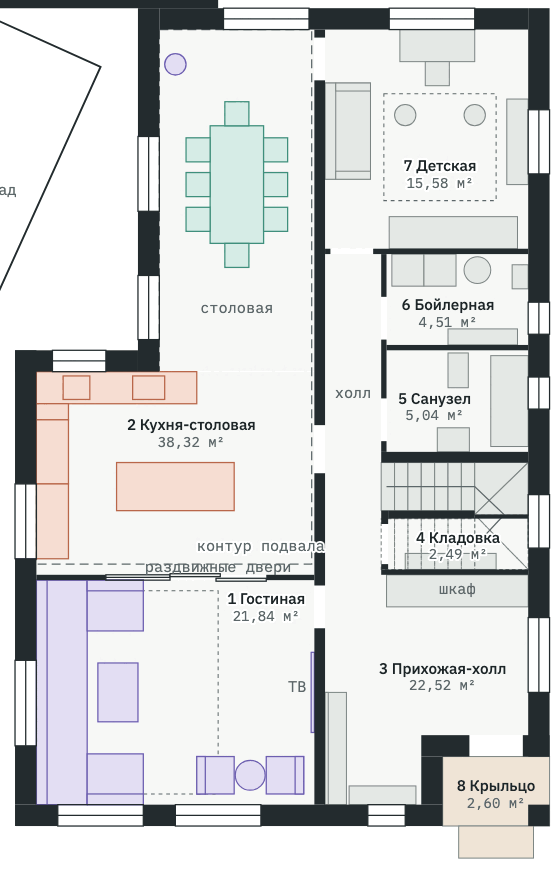
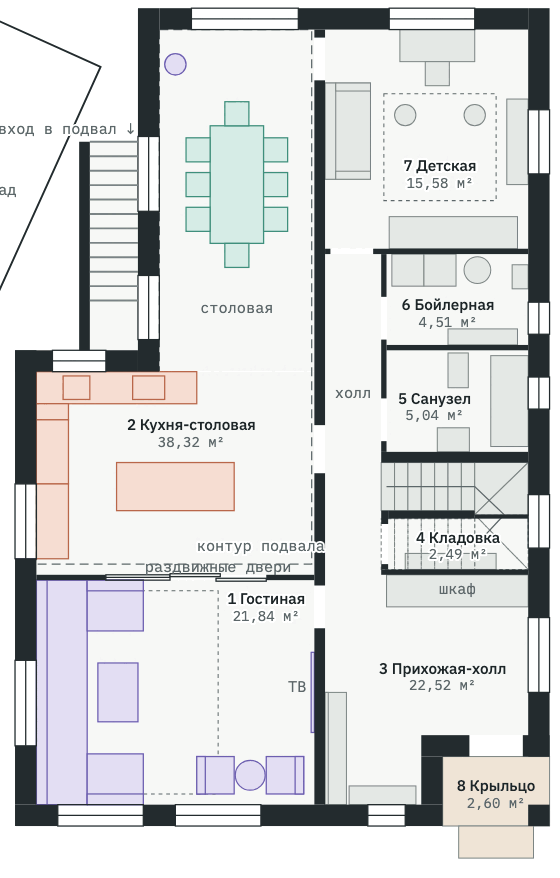
Variant 5: basement stair pit between the house and the shed
The pit now runs along the left wall of the dining room, starting past
the narrow spot at the shed corner (2.5 m from the house corner) and
ending at a door straight ahead into the basement under the kitchen.
Garden door, its pad and the septic sewer route are back as before.
Views, plans, volumes and notes updated.

diff --git a/dom/v5-dvuskatnaya.html b/dom/v5-dvuskatnaya.html
@@ -117,7 +117,7 @@ tr.out td{color:var(--muted)}
 <svg id="fplan" viewBox="-90 -110 850 1000" width="100%" role="img" style="min-width:540px"><title>План фундамента</title><desc>Монолитная плита 250 мм по контуру дома: сзади 7,7 м, спереди 10,0 м, длина 15,3 м, в правом переднем углу вырез под крыльцо. Рёбра под плитой показаны пунктиром, выпуски коммуникаций — кружками с кодами К, В, Э, З, выходы отопления — красными квадратиками О, трубы под плитой — цветным пунктиром, отдельные плиты крыльца и площадки у двери в сад, привязка к границе участков и переднему забору. Размеры в мм.</desc></svg>
 <svg id="fsec" viewBox="0 0 680 300" width="100%" role="img" style="min-width:540px;margin-top:6px"><title>Край плиты в разрезе</title><desc>Разрез по наружной стене: стена 400, плита 250, ребро 400 × 400, ЭППС 100, подушка 300, утеплённая отмостка, отметки от чистого пола.</desc></svg>
 </div>
-<svg id="plan1" viewBox="0 -40 680 800" width="100%" role="img" style="min-width:540px" hidden><title>План первого этажа</title><desc>Первый этаж, вариант 5: спереди дом шириной 10 м. Вход справа: крыльцо в правом переднем углу под вторым этажом, за ним большая прихожая-холл. Слева от фасада назад гостиная, за перегородкой с раздвижными стеклянными дверями кухня с островом и в узкой задней части столовая с выходом в сад. Пунктиром показан подвал под кухней и столовой, за задней стеной приямок со ступенями — вход в подвал. Справа прихожая-холл без перегородок до лестницы, со шкафом, вешалкой и обувницей, дальше лестница с кладовкой, санузел, бойлерная и детская. Размеры в мм.</desc></svg>
+<svg id="plan1" viewBox="0 0 680 760" width="100%" role="img" style="min-width:540px" hidden><title>План первого этажа</title><desc>Первый этаж, вариант 5: спереди дом шириной 10 м. Вход справа: крыльцо в правом переднем углу под вторым этажом, за ним большая прихожая-холл. Слева от фасада назад гостиная, за перегородкой с раздвижными стеклянными дверями кухня с островом и в узкой задней части столовая с выходом в сад. Пунктиром показан подвал под кухней и столовой, между домом и складом приямок со ступенями — вход в подвал. Справа прихожая-холл без перегородок до лестницы, со шкафом, вешалкой и обувницей, дальше лестница с кладовкой, санузел, бойлерная и детская. Размеры в мм.</desc></svg>
 <svg id="plan2" viewBox="0 0 680 760" width="100%" role="img" style="min-width:540px"><title>План второго этажа</title><desc>Второй этаж, вариант 5, полумансардный под двускатной крышей: мастер-спальня, гардеробная и санузел в задней части, Г-образная спальня, большой общий санузел, коридор с лестницей справа и две спальни спереди: слева на месте кабинета и балкона, справа. Пунктиром показаны окна в крыше. Размеры в мм.</desc></svg>
 </div>
 <div class="card">
@@ -129,9 +129,9 @@ tr.out td{color:var(--muted)}
 <tr><td>Р2</td><td>Ребро под несущей стеной вдоль дома 300 × 300, 14,5 м</td><td>1,3 м³</td></tr>
 <tr class="sum"><td></td><td>Бетон под дом</td><td>43,1 м³</td></tr>
 <tr class="out"><td>2</td><td>Плита крыльца 200 мм, через шов</td><td>0,6 м³</td></tr>
-<tr class="out"><td>3</td><td>Площадка у двери в сад 200 мм</td><td>0,4 м³</td></tr>
+<tr class="out"><td>3</td><td>Площадка у двери в сад 200 мм</td><td>0,6 м³</td></tr>
 <tr><td>4</td><td>Подвал: стены 400 мм и плита пола 200 мм</td><td>38,4 м³</td></tr>
-<tr><td>5</td><td>Приямок со ступенями</td><td>≈ 10 м³</td></tr>
+<tr><td>5</td><td>Приямок со ступенями</td><td>≈ 6 м³</td></tr>
 </table>
 <table id="tu" style="margin-top:14px"><caption>Выпуски из плиты · привязки в м от наружных граней</caption></table>
 <p class="hint" style="margin-top:10px">Серый пунктир на плане — рёбра под плитой, цветной — трубы в подушке под плитой, кружки — выпуски. Оранжевым канализация, синим вода, красным отопление, чёрным кабель, оливковым заземление. Отопление квадратиками: его трубы лежат не в бетоне, а поверх плиты в стяжке. Отметки в метрах от чистого пола 1 этажа. Сечения ориентировочные, армирование и точные размеры считает конструктор по геологии участка.</p>
@@ -176,8 +176,8 @@ tr.out td{color:var(--muted)}
 <li><b>Замеры с эскиза.</b> Пунктир на эскизе я понял как границу между участками …299 и …300. Склад 5,5 × 5,6 м. Его задний угол со стороны дома стоит в 10,4 м от границы, от этого места вдоль границы до переднего забора 18,7 м. От заднего угла участка вдоль левого забора до склада 10,6 м. По модели от переднего угла склада до границы выходит 12,7 м и до переднего забора 13,6 м, у вас 12,8 и 13,5. Расхождение 10 см, это в пределах точности рулетки. Верхняя строчка на фото обрезана, поэтому размер «до забора у эл. столба» я не увидел.</li>
 <li><b>Участки.</b> Новый дом стоит на участке …299. Правая стена в 2 м от границы с …300, это обязательный отступ. Фасад в 4,5 м от переднего забора. Выступ смотрит в дальний конец участка, вход к воротам. На участке …300 уже стоит двухэтажный дом 11 × 10 м в 2 м от границы и в 6 м от переднего забора. Я нарисовал его по фото. Крыша двускатная несимметричная, конёк идёт от фасада к заднему забору и сдвинут вправо, длинный пологий скат смотрит на новый дом. Карниз примерно на 5 м, конёк на 7,6 м, это оценка по фото. Считаю, что фасад с гаражом смотрит на передний забор. Пристройки сзади не рисовал. Снег с длинного ската будет сходить в двухметровую полосу у границы, так что на этот скат стоит поставить снегозадержатели. Между домами получается 4 м. Это меньше обычного противопожарного разрыва между домами на соседних участках (от 6 м), стоит проверить, как это решается для ваших двух участков. По замерам левый забор проходит на 0,6–0,9 м дальше, чем по кадастровым цифрам, поэтому торец с воротами на плане вышел ≈8,8 м вместо 8. Его лучше перемерить. Забор высотой 2 м идёт по всему внешнему периметру обоих участков, между ними забора нет. Ворота 4,5 м без верхней балки и калитка стоят в нижнем левом торце, от калитки к крыльцу ведёт дорожка.</li>
 <li><b>Фундамент — монолитная плита 250 мм</b> ровно по контуру дома, 135,7 м². Снизу рёбра: по контуру 400 × 400 мм под наружными стенами и одно ребро 300 × 300 мм под несущей стеной вдоль дома, 13,2 м. Остальные стены первого этажа — перегородки, отдельные рёбра под ними не нужны. Верх плиты на −0,100, на стяжку и пол остаётся 100 мм. Низ плиты на уровне земли, низ рёбер на −0,750. Под плитой ЭППС 100 мм и песчано-щебёночная подушка 300 мм, торец плиты утеплён, вокруг утеплённая отмостка. Бетона под дом уходит ≈43,1 м³. Крыльцо в правом переднем углу и площадка у двери в сад стоят на отдельных плитах 200 мм через шов, под угловой стойкой крыльца отдельная опора. Сечения ориентировочные: армирование и точные размеры считает конструктор по геологии участка.</li>
-<li><b>Подвал под кухней и столовой</b> с входом из сада. Он повторяет контур кухни и столовой, внутри 36,8 м²: 2,85 × 10 м вдоль несущей стены и 2,3 × 3,6 м под кухней у склада. Высота 2,4 м, пол на −2,750 от пола первого этажа, это 2,4 м ниже земли. Стены монолитные 400 мм заподлицо с наружными стенами дома, справа 300 мм прямо под несущей стеной, пол — плита 200 мм. Снаружи обмазочная гидроизоляция и ЭППС, по периметру дренаж. Плита 250 над подвалом становится перекрытием, её армируют как перекрытие. Вход — приямок вдоль задней стены слева от двери в сад: 12 ступеней по 200 мм с проступью 270, внизу площадка перед металлической дверью 0,8 м. Спускаются со стороны склада. Вокруг приямка ограждение 1 м, над ним нужен навес, в полу трап — воду из него отводят в дренажный колодец или насосом. Чтобы приямок не мешал выходу в сад, дверь в сад сдвинута вправо и стала 1,6 м, площадка перед ней тоже. Канализация от кухни идёт под потолком подвала, труба к септику обходит приямок. Внутри вдоль стен стеллажи для заготовок, свет и приточно-вытяжная вентиляция через стену. Бетона на подвал ≈ 38 м³ и на приямок ≈ 10 м³, котлован ≈ 200–250 м³ грунта. Главное — грунтовые воды: до решения нужна геология или шурф на 3 м. Если вода выше дна подвала, его делают в полной гидроизоляции или от него отказываются.</li>
-<li><b>Выпуски коммуникаций из плиты.</b> Всё, что должно торчать из плиты после заливки, показано в режиме «Только фундамент» и на плане фундамента, коды и привязки — в таблице рядом. Канализация: К1 мойка на кухне, К2 стояк общего санузла второго этажа в кухонной колонне, К3 унитаз, К4 стояк мастер-санузла второго этажа, К5 раковина, К6 трап душа, К7 стиральная и сушильная машины, К8 трап в бойлерной. Трубы 110 и 50 мм прокладывают в подушке под утеплителем с уклоном 2 % для 110 и 3 % для 50 к общему выпуску КВ через заднюю стену, оттуда труба 110 идёт ≈ 11 м к септику за складом, в обход приямка. Через рёбра трубы идут в гильзах, выпуски выводят на 150–200 мм выше плиты и заглушают. Септик квадратный, 2 × 2 м, стоит вплотную за складом у левого забора, стороны параллельны складу. До угла дома от него ≈ 3,8 м: для герметичного септика этого хватает, а если он с фильтрацией в грунт, обычно требуют от 5 м — это стоит уточнить у поставщика. В бойлерной у правой стены ввод воды В1 в гильзе ниже промерзания, вода приходит из-за дома на …300 — за его задней стеной и по полосе между домом и границей, гильза под кабель Э1 и выпуск заземления З1 от контура. Кабель приходит от щита учёта на переднем заборе у границы участков: в трубе ПНД на глубине 0,8 м под площадкой для машины и дальше по полосе между домом и границей к гильзе Э1, ≈ 16 м. С водой он пересекается на разной глубине. Точку, где вода подключается за домом на …300, надо уточнить до закладки. Газ к котлу заводят через стену выше земли. Отопление показано красным: коллектор ОК у котла, трубы PEX 16 к радиаторам под окнами первого этажа О1–О6, полотенцесушитель О7 и стояк на второй этаж О8. Эти трубы кладут не в бетон, а поверх плиты в стяжку, через несущую стену — только в дверных проёмах. Но выходы из пола надо знать до стяжки. Разводка ориентировочная, под радиаторы; если захотите тёплый пол, стяжка и утеплитель будут другими. Места выпусков сверить с сантехником: точность ±20 мм.</li>
+<li><b>Подвал под кухней и столовой</b>, вход через приямок между домом и складом. Подвал повторяет контур кухни и столовой, внутри 36,8 м²: 2,85 × 10 м вдоль несущей стены и 2,3 × 3,6 м под кухней у склада. Высота 2,4 м, пол на −2,750 от пола первого этажа, это 2,4 м ниже земли. Стены монолитные 400 мм заподлицо с наружными стенами дома, справа 300 мм прямо под несущей стеной, пол — плита 200 мм. Снаружи обмазочная гидроизоляция и ЭППС, по периметру дренаж. Плита 250 над подвалом становится перекрытием, её армируют как перекрытие. Приямок идёт вдоль левой стены столовой. От двери в сад заворачиваешь за угол дома, проходишь мимо угла склада — там самое узкое место, 0,7 м, приямок туда не помещается — и в 2,5 м от угла начинаются ступени: 11 проступей по 270 мм, подъём 200. Внизу площадка 0,9 × 0,9 м, и прямо по ходу металлическая дверь 0,8 м в стене под ступенькой дома, она ведёт в часть подвала под кухней. Со стороны склада подпорная стенка с ограждением 1 м, до склада от неё 0,2–1,9 м; сваи склада рядом, котлован у них надо крепить. Над приямком нужен навес, в полу трап — воду из него отводят в дренажный колодец или насосом. Проход между домом и складом к фасаду приямок перекрывает, обходить придётся с другой стороны дома. Канализация от кухни идёт под потолком подвала. Внутри вдоль стен стеллажи для заготовок, свет и приточно-вытяжная вентиляция через стену. Бетона на подвал ≈ 38 м³ и на приямок ≈ 6 м³, котлован ≈ 200–250 м³ грунта. Главное — грунтовые воды: до решения нужна геология или шурф на 3 м. Если вода выше дна подвала, его делают в полной гидроизоляции или от него отказываются.</li>
+<li><b>Выпуски коммуникаций из плиты.</b> Всё, что должно торчать из плиты после заливки, показано в режиме «Только фундамент» и на плане фундамента, коды и привязки — в таблице рядом. Канализация: К1 мойка на кухне, К2 стояк общего санузла второго этажа в кухонной колонне, К3 унитаз, К4 стояк мастер-санузла второго этажа, К5 раковина, К6 трап душа, К7 стиральная и сушильная машины, К8 трап в бойлерной. Трубы 110 и 50 мм прокладывают в подушке под утеплителем с уклоном 2 % для 110 и 3 % для 50 к общему выпуску КВ через заднюю стену, оттуда труба 110 идёт ≈ 10 м к септику за складом. Через рёбра трубы идут в гильзах, выпуски выводят на 150–200 мм выше плиты и заглушают. Септик квадратный, 2 × 2 м, стоит вплотную за складом у левого забора, стороны параллельны складу. До угла дома от него ≈ 3,8 м: для герметичного септика этого хватает, а если он с фильтрацией в грунт, обычно требуют от 5 м — это стоит уточнить у поставщика. В бойлерной у правой стены ввод воды В1 в гильзе ниже промерзания, вода приходит из-за дома на …300 — за его задней стеной и по полосе между домом и границей, гильза под кабель Э1 и выпуск заземления З1 от контура. Кабель приходит от щита учёта на переднем заборе у границы участков: в трубе ПНД на глубине 0,8 м под площадкой для машины и дальше по полосе между домом и границей к гильзе Э1, ≈ 16 м. С водой он пересекается на разной глубине. Точку, где вода подключается за домом на …300, надо уточнить до закладки. Газ к котлу заводят через стену выше земли. Отопление показано красным: коллектор ОК у котла, трубы PEX 16 к радиаторам под окнами первого этажа О1–О6, полотенцесушитель О7 и стояк на второй этаж О8. Эти трубы кладут не в бетон, а поверх плиты в стяжку, через несущую стену — только в дверных проёмах. Но выходы из пола надо знать до стяжки. Разводка ориентировочная, под радиаторы; если захотите тёплый пол, стяжка и утеплитель будут другими. Места выпусков сверить с сантехником: точность ±20 мм.</li>
 <li><b>Mercedes Atego с кузовом 7 м</b> (вся машина около 9,3 м) заезжает вдоль переднего забора и проезжает вперёд до границы второго участка. До забора 0,5 м, до фасада около 1,5 м, проход к крыльцу остаётся. Чтобы грузовик заезжал прямо вдоль забора, ворота 4,5 м сдвинуты в самый угол торца, калитка дальше по торцу. Это работает, если с улицы он подъезжает примерно вдоль переднего забора. Площадка засыпана асфальтной крошкой. Кузов высотой около 3,3 м будет стоять напротив окон гостиной и тамбура на фасаде и затенять его.</li>
 <li><b>Склад 5,5 × 5,6 м</b> стоит стороной 5,6 м вплотную к левому забору, под углом ≈24° к дому. Склад обшит OSB. Дверь пластиковая прозрачная, у склада два окна 1 × 1 м: рядом с дверью слева и справа за углом. Через 1 м после склада вдоль забора в сторону ворот стоит вагончик-бытовка 8 × 2,4 м на блоках: обшит серым профлистом, по контуру синий профиль, крыша плоская чёрная. Дверь справа на длинной стороне к двору, окна только в торцах. Между углом склада и задней частью дома проход 0,7 м, от передней широкой части до склада тоже 0,7 м. Склад стоит на стальных сваях с зазором 40 см от земли. Корпус высотой 3 м со стороны дома и 2 м у забора, крыша со скатом к забору. Вход через обычную пластиковую дверь с крыльцом из трёх ступенек в торце со стороны входа в дом.</li>
 <li><b>Вариант 5.</b> Форма дома как в четвёртом: сзади 7,7 м по линии выступа, с 6,4 м от задней стены одна ступенька и дальше до фасада 10 м, до склада везде 0,7 м. Вход справа: крыльцо 2,0 × 1,3 м утоплено в правый передний угол под второй этаж, на углу стойка. Входная дверь смотрит на фасад, прямо напротив ступенек крыльца, и ведёт сразу в большую прихожую-холл. Слева вся ширина от фасада до сада отдана дневной зоне: спереди гостиная, за ней кухня, в конце дома, в узкой части шириной 2,9 м, столовая с выходом в сад. Справа прихожая-холл с лестницей, санузел, бойлерная и детская. Крыша двускатная с коньком над несущей стеной, второй этаж полумансардный.</li>
@@ -202,7 +202,7 @@ window.HOUSE={FL2:3060,H1:2800,H2:2700,
 walls1:[
  {o:'v',a0:-400,a1:6400,c0:300,c1:700,ops:[{f:2000,t:3400,s:900,h:2700,k:'w'},{f:4600,t:5800,s:800,h:2600,k:'w'}]},
  {o:'h',a0:-2000,a1:300,c0:6000,c1:6400,ops:[{f:-1300,t:-300,s:1050,h:2300,k:'w'}]},
- {o:'h',a0:700,a1:7600,c0:-400,c1:0,ops:[{f:1900,t:3500,s:0,h:2400,k:'g'},{f:5000,t:6600,s:800,h:2600,k:'w'}]},
+ {o:'h',a0:700,a1:7600,c0:-400,c1:0,ops:[{f:1300,t:3300,s:0,h:2400,k:'g'},{f:5000,t:6600,s:800,h:2600,k:'w'}]},
  {o:'v',a0:-400,a1:13600,c0:7600,c1:8000,ops:[{f:1500,t:2700,s:800,h:2600,k:'w'},{f:5100,t:5700,s:1200,h:2000,k:'w'},{f:6500,t:7100,s:1400,h:2100,k:'w'},{f:8700,t:9700,s:1600,h:2800,k:'w'},{f:11000,t:12400,s:800,h:2600,k:'w'}]},
  {o:'v',a0:14500,a1:14900,c0:7600,c1:8000,ops:[]},
  {o:'v',a0:6000,a1:14500,c0:-2000,c1:-1600,ops:[{f:8500,t:9900,s:1050,h:2300,k:'w'},{f:11800,t:13400,s:900,h:2600,k:'w'}]},
@@ -286,11 +286,12 @@ ROOF:{ridge:3700,knee:2100}
   ribs:[[300,-400,7700,400,400],[7600,0,400,13600,400],[6000,13200,2000,400,400],[5600,13600,400,1300,400],
    [-2000,14500,7600,400,400],[-2000,6000,400,8500,400],[-1600,6000,1900,400,400],[300,0,400,6400,400],
    [3550,0,300,14500,300]],
-  porch:[[6000,13620,2000,1280,200],[6300,14900,1400,600,100],[1850,-1600,1750,1180,200]],
+  porch:[[6000,13620,2000,1280,200],[6300,14900,1400,600,100],[1100,-1600,2400,1180,200]],
   /* подвал под кухней и столовой: пол −2,750, стены 400 по контуру дома (справа 300 под несущей стеной); приямок вдоль задней стены слева от двери в сад */
-  base:{floor:-2750,door:[750,1550],area:36.78,
+  base:{floor:-2750,door:[-550,250],area:36.78,
    out:[[300,-400],[3850,-400],[3850,10300],[-2000,10300],[-2000,6000],[300,6000]],inn:[[700,0],[3550,0],[3550,10000],[-1600,10000],[-1600,6400],[700,6400]],
-   pit:{x0:-2470,x1:1800,land:700,out:[[-2470,-1700],[1800,-1700],[1800,-400],[-2470,-400]],inn:[[-2470,-1500],[1600,-1500],[1600,-600],[-2470,-600]]}},
+   /* приямок между домом и складом: начинается за узким местом у угла склада, ступени вниз к фасаду, дверь прямо по ходу */
+   pit:{top:2100,land:5070,out:[[-800,2100],[300,2100],[300,6000],[-800,6000]],inn:[[-600,2100],[300,2100],[300,6000],[-600,6000]]}},
   /* выпуски из плиты: [код, вид, x, y, Ø мм, что, подпись: r/l/u] — к: канализация, в: вода, э: кабель, з: заземление */
   util:[['К1','k',-850,6700,50,'Мойка и посудомойка на кухне','u'],['К2','k',-1450,8350,110,'Стояк общего санузла 2 этажа, в кухонной колонне','r'],
    ['К3','k',6290,6250,110,'Унитаз, санузел 1 этажа','l'],['К4','k',6700,6100,110,'Стояк мастер-санузла 2 этажа, в коробе','u'],
@@ -306,7 +307,7 @@ ROOF:{ridge:3700,knee:2100}
     ['О7',5050,7000,16,'Полотенцесушитель в санузле','u'],['О8',5050,5800,20,'Стояк отопления на 2 этаж, в гардеробную','r'],['ОК',6800,5450,25,'Коллектор отопления у котла','u']],
    lines:[[[6800,5450],[5800,5450],[5800,300]],[[5800,550],[800,550],[800,5200]],[[6800,5450],[4400,5450],[4400,10800],[3000,10800],[3000,14350],[-400,14350]],
     [[4400,11700],[7450,11700]],[[4400,7000],[5050,7000]],[[6800,5450],[6800,5800],[5050,5800]]]},
-  exit:[5200,-400],sept:SEP,septPts:SEPP,outSewer:[[5200,-400],[5200,-2300],SEP],waterIn:[[16500,1800],[9000,1800],[9000,5450]],
+  exit:[5200,-400],sept:SEP,septPts:SEPP,outSewer:[[5200,-400],[5200,-1500],SEP],waterIn:[[16500,1800],[9000,1800],[9000,5450]],
   /* кабель от щита учёта на переднем заборе у границы участков, в трубе ПНД под площадкой и вдоль правой стены */
   cableIn:[[9700,19250],[9400,18950],[9400,5100]],meter:[9700,19250],
   feeds:[['w',[9000,5450],[7450,5450],-1200],['e',[9400,5100],[7450,5100],-800],['z',[8600,4750],[7450,4750],-700]]};
@@ -362,7 +363,7 @@ drawPlan(document.getElementById('plan1'),{
  walls:HS.walls1,floors:HS.floors1,
  polys:[{pts:HS.SKLAD.pts,a:{fill:'url(#hatch)',stroke:'var(--wall)','stroke-width':1.5}},{pts:HS.FUND.base.inn,a:{fill:'none',stroke:'var(--muted)','stroke-width':1,'stroke-dasharray':'7 4'}},
   {pts:HS.FUND.base.pit.out,a:{fill:'var(--wall)'}},{pts:HS.FUND.base.pit.inn,a:{fill:'var(--floor)'}}],
- dimY:-50,rails:Array.from({length:12},(_,i)=>{const x=700-270*i;return [x,-1500,x,-600];}),
+ rails:Array.from({length:12},(_,i)=>{const y=HS.FUND.base.pit.top+270*i;return [-600,y,300,y];}),
  deck:[[6000,13600,2000,1300],[6300,14900,1400,600]],
  dash:[[-1500,10500,3300,3800],[4900,1200,2100,2000]],
  items:[
@@ -382,7 +383,7 @@ drawPlan(document.getElementById('plan1'),{
  labels:[['1 Гостиная','21,84',2700,10750,'middle',1],['2 Кухня-столовая','38,32',1300,7500],['3 Прихожая-холл','22,52',6000,12050],
   ['4 Кладовка','2,49',6290,9600,'middle',1],['5 Санузел','5,04',5850,7000],['6 Бойлерная','4,51',6100,5250],['7 Детская','15,58',5950,2650,'middle',1],
   ['8 Крыльцо','2,60',7000,14250]],
- notes:[['склад',-2400,3100,'middle'],['приямок, вход в подвал',-400,-990,'middle',1],['контур подвала',2600,9750,'middle',1],['раздвижные двери',1800,10140,'middle'],['холл',4325,6900,'middle'],['шкаф',6275,10560,'middle'],['ТВ',3450,12400,'end'],['столовая',2150,5300,'middle']]
+ notes:[['склад',-2400,3100,'middle'],['вход в подвал ↓',250,1950,'end',1],['контур подвала',2600,9750,'middle',1],['раздвижные двери',1800,10140,'middle'],['холл',4325,6900,'middle'],['шкаф',6275,10560,'middle'],['ТВ',3450,12400,'end'],['столовая',2150,5300,'middle']]
 });
 (function site(){
  /* план участков в ориентации эскиза: задний забор сверху, граница с …300 справа от дома */
@@ -476,7 +477,7 @@ drawPlan(document.getElementById('plan1'),{
   ['Участки',[['Задний забор …299',f1(XB-PL.P1[0]),'расчёт'],['Левый забор',f1(10600+LF),'расчёт'],['Торец с воротами',f1(hy(PL.P4,PL.P5)),'перемерить'],
    ['Передний забор …299',f1(hy(PL.D2,PL.P4)),'кадастр'],['Граница …299 / …300',f1(YF-PL.P1[1]),'расчёт'],['Задний забор …300',f1(hy(PL.D1,PL.P2)),'кадастр'],
    ['Правый забор …300',f1(hy(PL.P2,PL.P3)),'расчёт'],['Передний забор …300',f1(hy(PL.P3,PL.D2)),'кадастр']]],
-  ['Постройки',[['Новый дом','10,0 × 15,3','проект'],['Задняя часть дома','7,7 × 6,4','проект'],['Площадка у двери в сад','1,75 × 1,2','проект'],['Приямок входа в подвал','4,3 × 1,3','проект'],['Крыльцо','2,0 × 1,3','проект'],
+  ['Постройки',[['Новый дом','10,0 × 15,3','проект'],['Задняя часть дома','7,7 × 6,4','проект'],['Площадка у двери в сад','2,4 × 1,2','проект'],['Приямок входа в подвал','1,1 × 3,9','проект'],['Крыльцо','2,0 × 1,3','проект'],
    ['Склад',f1(K.W)+' × '+f1(K.L),'замер'],['Вагончик','8,0 × 2,4','проект'],['Дом на …300, 2 этажа','11 × 10','замер']]],
   ['Новый дом — привязка',[['До границы с …300',f1(XB-8000),'от вас'],['До переднего забора',f1(YF-14900),'проект'],['До заднего забора',f1(-400-PL.P1[1]),'расчёт'],
    ['До дома на …300',f1(O[0]-8000),'расчёт'],['Септик 2 × 2 м — угол дома',f1(Math.min(...FD.septPts.map(q=>Math.hypot(q[0]-300,q[1]+400)))),'расчёт'],['Септик — склад','вплотную','от вас'],['Задняя часть — угол склада',f1(300-TE[0]),'расчёт'],['Широкая часть — склад','0,7','от вас']]],
@@ -530,7 +531,8 @@ drawPlan(document.getElementById('plan2'),{
  /* подвал: стены кольцом, пол ниже; приямок со ступенями */
  {const Bs=F.base;el('polygon',{points:PT(Bs.out),fill:'var(--rib)',stroke:'var(--wall)','stroke-width':1});el('polygon',{points:PT(Bs.inn),fill:'var(--sand)',stroke:'var(--wall)','stroke-width':1});
   el('polygon',{points:PT(Bs.pit.out),fill:'var(--rib)',stroke:'var(--wall)','stroke-width':1});el('polygon',{points:PT(Bs.pit.inn),fill:'var(--sand)',stroke:'var(--wall)','stroke-width':1});
-  for(let i=0;i<12;i++){const x=700-270*i;el('line',{x1:X(x),x2:X(x),y1:Y(-1500),y2:Y(-600),stroke:'var(--wall)','stroke-width':0.6});}}
+  for(let i=0;i<12;i++){const y=Bs.pit.top+270*i;el('line',{x1:X(-600),x2:X(300),y1:Y(y),y2:Y(y),stroke:'var(--wall)','stroke-width':0.6});}
+  const tp=T(X(-150),Y(4000),'приямок, вход в подвал','ts halo');tp.setAttribute('transform','rotate(-90 '+X(-150)+' '+Y(4000)+')');}
  /* плита, рёбра под ней пунктиром, отдельная плита крыльца */
  el('polygon',{points:PT(F.contour),fill:'var(--conc)',stroke:'var(--wall)','stroke-width':1.6,'fill-opacity':0.82});
  F.ribs.forEach(r=>R(r[0],r[1],r[2],r[3],{fill:'var(--rib)',stroke:'var(--wall)','stroke-width':0.7,'stroke-dasharray':'4 2'}));
@@ -554,14 +556,14 @@ drawPlan(document.getElementById('plan2'),{
  inL('o',()=>F.heat.pts.forEach(h=>{const px=X(h[1]),py=Y(h[2]);el('rect',{x:px-3.5,y:py-3.5,width:7,height:7,fill:UC.o,stroke:'var(--surface)','stroke-width':1});
   const o=h[5]==='l'?[-7,4,'end']:h[5]==='u'?[0,-8,'middle']:[7,4,'start'];T(px+o[0],py+o[1],h[0],'ts halo',o[2],UC.o).style.fontWeight='600';}));
  {const tb=document.getElementById('tu'),f1=v=>(v/1000).toFixed(2).replace('.',','),side=x=>x<3700?'от левой '+f1(x-(-2000)):'от правой '+f1(8000-x);
-  F.util.concat([['КВ','k',F.exit[0],-400,110,'Выпуск канализации через заднюю стену в гильзе, дальше ≈ '+(1.9+Math.hypot(F.sept[0]-5200,F.sept[1]+2300)/1000).toFixed(1).replace('.',',')+' м к септику']]).forEach(u=>{const tr=tb.insertRow();
+  F.util.concat([['КВ','k',F.exit[0],-400,110,'Выпуск канализации через заднюю стену в гильзе, дальше ≈ '+(1.1+Math.hypot(F.sept[0]-5200,F.sept[1]+1500)/1000).toFixed(1).replace('.',',')+' м к септику']]).forEach(u=>{const tr=tb.insertRow();
    tr.insertCell().textContent=u[0];tr.cells[0].style.color=UC[u[1]]==='var(--ink)'?'':UC[u[1]];
    tr.insertCell().textContent=u[5]+' · '+side(u[2])+(u[0]==='КВ'?'':', от задней '+f1(u[3]+400));tr.insertCell().textContent=u[4]?'Ø'+u[4]:'—';});
   F.heat.pts.forEach(h=>{const tr=tb.insertRow();tr.insertCell().textContent=h[0];tr.cells[0].style.color=UC.o;
    tr.insertCell().textContent=h[4]+', в стяжке · '+side(h[1])+', от задней '+f1(h[2]+400);tr.insertCell().textContent='Ø'+h[3];});}
  T(X(5700),Y(9500),'Монолитная плита 250 мм','rn');T(X(5700),Y(9500)+14,'135,7 м² · верх −0,100','ra');
  T(X(7450),Y(2000)+4,'Р1 400 × 400','ts','end');T(X(3500),Y(3000),'Р2 300 × 300','ts','end');
- T(X(7000),Y(14150),'Крыльцо','rn');T(X(2725),Y(-1010),'Площадка в сад','rn');T(X(2725),Y(-1010)+13,'плита 200','ra');T(X(-430),Y(-1050)+4,'приямок, вход в подвал','ts halo');T(X(1300),Y(9300),'Подвал 36,8 м² · пол −2,750','ts halo');T(X(7000),Y(14150)+13,'плита 200','ra');
+ T(X(7000),Y(14150),'Крыльцо','rn');T(X(2300),Y(-1010),'Площадка в сад','rn');T(X(2300),Y(-1010)+13,'плита 200','ra');T(X(1300),Y(9300),'Подвал 36,8 м² · пол −2,750','ts halo');T(X(7000),Y(14150)+13,'плита 200','ra');
  /* размеры */
  dH(-2000,300,-40,'2300');dH(300,8000,-40,'7700');
  const pb=Y(15500)+26;dH(-2000,6000,pb,'8000');dH(6000,8000,pb,'2000');dH(-2000,8000,pb+24,'10000');
@@ -684,24 +686,23 @@ const concM=new THREE.MeshStandardMaterial({color:'#b3b0a9',roughness:0.95});
 slab(FD.contour,FD.top-FD.t,FD.t,concM,fundG);
 FD.ribs.forEach(r=>B(r[0],r[1],r[2],r[3],FD.top-FD.t-r[4],r[4],'#9d9a93',fundG));
 FD.porch.forEach(r=>B(r[0],r[1],r[2],r[3],-370,r[4],null,fundG,concM));
-/* ---------- подвал под кухней и столовой, вход из сада через приямок ---------- */
+/* ---------- подвал под кухней и столовой, вход через приямок между домом и складом ---------- */
 {const BG=new THREE.Group();fundG.add(BG);const P=FD.base,wc='#a9a69f',Z0=P.floor,ZT=FD.top-FD.t;
  const BB=(x,y,w,d,z,h,c)=>B(x,y,w,d,z,h,c||wc,BG);
  slab(P.out,Z0-200,200,'#9d9a93',BG);slab(P.inn,Z0,10,'#c9c5bc',BG);
- /* стены 400 заподлицо с наружными стенами дома, справа 300 под несущей стеной; дверь в задней стене */
+ /* стены 400 заподлицо с наружными стенами дома, справа 300 под несущей стеной; дверь в стене под ступенькой дома, прямо с площадки приямка */
  const H=ZT-(Z0-200),zb=Z0-200,D=P.door;
- BB(300,-400,D[0]-300,400,zb,H);BB(D[1],-400,3850-D[1],400,zb,H);BB(D[0],-400,D[1]-D[0],400,Z0+2000,ZT-Z0-2000);
- BB(3550,0,300,10300,zb,H);BB(-2000,10000,5550,300,zb,H);BB(-2000,6000,400,4000,zb,H);BB(-2000,6000,2700,400,zb,H);BB(300,0,400,6000,zb,H);
- /* приямок: пол, подпорные стенки выше земли на 150, ступени 200 × 270, площадка у двери */
+ BB(300,-400,3550,400,zb,H);BB(3550,0,300,10300,zb,H);BB(-2000,10000,5550,300,zb,H);BB(-2000,6000,400,4000,zb,H);BB(300,0,400,6000,zb,H);
+ BB(-2000,6000,D[0]+2000,400,zb,H);BB(D[1],6000,700-D[1],400,zb,H);BB(D[0],6000,D[1]-D[0],400,Z0+2000,ZT-Z0-2000);
+ /* приямок вдоль левой стены столовой: подпорная стенка со стороны склада, справа стена дома, в конце стена под ступенькой дома */
  const Q=P.pit,top=-200;slab(Q.out,Z0-200,200,'#9d9a93',BG);
- BB(Q.x0,-1700,Q.x1-Q.x0,200,zb,top-zb);BB(Q.x0,-600,D[0]-Q.x0,200,zb,top-zb);BB(D[1],-600,Q.x1-D[1],200,zb,top-zb);BB(D[0],-600,D[1]-D[0],200,Z0+2000,top-Z0-2000);
- BB(Q.x1-200,-1500,200,900,zb,top-zb);
- for(let i=1;i<=12;i++)BB(Q.land-270*i,-1500,270,900,Z0,Math.min(200*i,-350-Z0),'#b8b4ab');
- BB(D[0]+20,-520,D[1]-D[0]-40,40,Z0,2000,'#4a4f55');BB(D[1]-140,-560,20,40,Z0+950,120,'#c9ccce');
- B(Q.land+300,-1150,300,300,Z0,12,'#555',BG);
- /* ограждение 1 м по краю, вход сверху со стороны склада */
- const rC='#5a5f64',rh=-350+1050;[[[Q.x0+100,-1600],[Q.x1-100,-1600]],[[Q.x0+100,-500],[Q.x1-100,-500]],[[Q.x1-100,-1600],[Q.x1-100,-500]]].forEach(([a,b])=>{bar(a,b,40,rh-40,40,rC,BG);
-  const L=Math.hypot(b[0]-a[0],b[1]-a[1]),n=Math.max(1,Math.round(L/1200));for(let k=0;k<=n;k++){const t=k/n;B(a[0]+(b[0]-a[0])*t-20,a[1]+(b[1]-a[1])*t-20,40,40,top,rh-top,rC,BG);}});
+ BB(-800,Q.top,200,6000-Q.top,zb,top-zb);
+ for(let i=1;i<=11;i++)BB(-600,Q.top+270*(i-1),900,270,Z0,-350-200*i-Z0,'#b8b4ab');
+ BB(D[0]+20,6000,D[1]-D[0]-40,40,Z0,2000,'#4a4f55');BB(D[1]-140,5960,120,20,Z0+950,40,'#c9ccce');
+ B(-300,Q.land+250,300,300,Z0,12,'#555',BG);
+ /* ограждение 1 м по подпорной стенке, вход сверху от угла дома */
+ {const rC='#5a5f64',rh=-350+1050,a=[-700,Q.top+100],b=[-700,5950];bar(a,b,40,rh-40,40,rC,BG);
+  for(let y=a[1];y<=b[1]+1;y+=(b[1]-a[1])/3)B(-720,y-20,40,40,top,rh-top,rC,BG);}
  /* стеллажи для заготовок и свет */
  const shelf=(x,y,w,d)=>{[0,450,900,1350,1800].forEach(z=>B(x,y,w,d,Z0+z,25,'#c9a877',BG));[[x,y],[x+w-40,y],[x,y+d-40],[x+w-40,y+d-40]].forEach(q=>B(q[0],q[1],40,40,Z0,1830,'#8a6e4a',BG));
   const cs=['#b4432f','#d9a43a','#6f8f3a','#8a3f5a'];for(let k=0;k<Math.floor((w>d?w:d)/260);k++)[1,2,3].forEach(j=>{const c=cs[(k+j)%4],px=w>d?x+80+k*260:x+60,py=w>d?y+60:y+80+k*260;B(px,py,160,160,Z0+j*450+25,220,c,BG);});};
@@ -1063,7 +1064,7 @@ function setView(e,t,m){mode=m;
 const E=3.06+1.6;
 const PLg=HS.PLOT,Gt=PLg.G,Nt=PLg.n;
 const V={entry:[[6.95,1.75,16.3],[6.95,1.25,13.3],'orbit',true],truck:[[-12,8,29],[3,1.5,17],'orbit',true],all:[[-3,20,-1],[3.8,0,7.2],'orbit'],top:[[3.8,27,7.6],[3.8,0,7.2],'orbit'],front:[[9,8,27],[3.5,3,8],'orbit',true],nw:[[-11,8,-9],[4,3,5],'orbit',true],site:[[-1,44,24],[7.5,0,4.5],'orbit',true],old:[[8.5,4.5,24],[16.5,3,9.5],'orbit',true],
- fall:[[14,11,20],[3.8,-0.6,6.8],'orbit'],ftop:[[3.4,28,4.6],[3.4,-0.5,4.2],'orbit'],ffront:[[11,5,25],[3.8,-0.5,7.5],'orbit'],fnw:[[-10,5,-7],[3.8,-0.5,6],'orbit'],fbelow:[[-5,-8,21],[3.8,-0.5,7.2],'orbit'],futil:[[11,4.5,11.5],[4.6,-0.3,6.0],'orbit'],pit:[[-4.2,3.4,-5.6],[-0.4,-1.6,-1.0],'orbit'],basement:[[2.3,-1.1,9.7],[1.6,-1.9,1.6],'look'],
+ fall:[[14,11,20],[3.8,-0.6,6.8],'orbit'],ftop:[[3.4,28,4.6],[3.4,-0.5,4.2],'orbit'],ffront:[[11,5,25],[3.8,-0.5,7.5],'orbit'],fnw:[[-10,5,-7],[3.8,-0.5,6],'orbit'],fbelow:[[-5,-8,21],[3.8,-0.5,7.2],'orbit'],futil:[[11,4.5,11.5],[4.6,-0.3,6.0],'orbit'],pit:[[-0.1,2.4,-0.3],[-0.15,-2.0,5.0],'orbit'],basement:[[2.3,-1.1,9.7],[1.6,-1.9,1.6],'look'],
  dining:[[3.1,1.6,6.6],[1.9,0.8,1.0],'look'],living:[[3.2,1.6,10.8],[-0.8,0.6,13.0],'look'],kitchen:[[3.0,1.6,9.9],[-1.0,0.9,6.8],'look'],
  corridor:[[4.3,1.6,12.8],[4.3,1.3,5.5],'look'],stair:[[4.0,1.6,8.55],[7.6,1.9,8.9],'look'],stairtop:[[4.4,4.6,11.2],[6.2,0.9,9.1],'orbit'],
  bedroom:[[7.3,1.6,3.5],[4.3,0.7,1.8],'look'],priem:[[7.0,1.6,13.1],[4.6,1.0,10.9],'look'],priemtop:[[5.7,10.5,15.6],[5.7,0.3,11.9],'orbit'],boiler:[[5.2,1.6,5.6],[7.4,1.1,4.4],'look'],glass:[[2.6,1.6,13.8],[0.7,1.2,10.2],'look'],

diff --git a/index.html b/index.html
@@ -82,7 +82,7 @@ h2{font-size:18px;font-weight:600;margin:0}
 <div class="body">
 <span class="tag">ВАРИАНТ 5</span>
 <h2>10 м спереди, двускатная крыша</h2>
-<p>Вход с крыльцом справа в большую прихожую без перегородок, со шкафом, вешалкой и обувницей. Слева гостиная 21,8 м² у фасада, за раздвижными стеклянными дверями кухня 5,2 × 3,8 м с островом и в узкой задней части столовая с выходом в сад. Спальня на первом этаже стала детской с раскладным диванчиком и дверью из столовой, наверху вместо кабинета и балкона спальня 22 м². Под кухней и столовой подвал 36,8 м² с входом из сада через приямок. Конёк над несущей стеной, второй этаж полумансардный.</p>
+<p>Вход с крыльцом справа в большую прихожую без перегородок, со шкафом, вешалкой и обувницей. Слева гостиная 21,8 м² у фасада, за раздвижными стеклянными дверями кухня 5,2 × 3,8 м с островом и в узкой задней части столовая с выходом в сад. Спальня на первом этаже стала детской с раскладным диванчиком и дверью из столовой, наверху вместо кабинета и балкона спальня 22 м². Под кухней и столовой подвал 36,8 м² с входом через приямок между домом и складом. Конёк над несущей стеной, второй этаж полумансардный.</p>
 <span class="nums">1 этаж <b>110,3</b> · 2 этаж <b>112,4</b> · всего <b>≈222,7 м²</b></span>
 <a class="btn" href="dom/v5-dvuskatnaya.html">Открыть</a>
 </div>

diff --git a/dom/README.md b/dom/README.md
@@ -8,7 +8,7 @@
 | `v2-vhod-sleva.html` | По эскизу. Размеры как в варианте 5, два полных этажа, двускатная крыша. Справа вдоль несущей стены кухня-столовая и гостиная. Слева бойлерная и санузел сзади, спальня, лестница, холл, тамбур и крыльцо спереди. Артефакт: https://claude.ai/artifact/3iNbKe61ds9eAX2H2THzCe |
 | `v3-kuhnya-gostinaya-u-vhoda.html` | Планировка варианта 4 (вход, кухня и гостиная слева; справа холл с лестницей, санузел, бойлерная, спальня и гостевая) с двумя полными этажами и двускатной крышей. Артефакт: https://claude.ai/artifact/2fQcV7woFJbdg7w1L99MuV |
 | `v4-shirina-10m.html` | Как вариант 3, но с 6,4 м от задней стены дом одной ступенькой расширяется к складу до 10 м (до склада везде 0,7 м). Кухня-столовая 31 м², крыша буквой Т. Спальня на первом этаже стала детской с дверью из гостиной. Артефакт: https://claude.ai/artifact/JNdo8EkxG9LTb8UJyd4uq7 |
-| `v5-dvuskatnaya.html` | Форма как в варианте 4. Вход справа: крыльцо в правом переднем углу под вторым этажом, за ним большая прихожая-холл без перегородок до лестницы, со шкафом, вешалкой и обувницей. Слева гостиная у фасада, за перегородкой с двумя раздвижными стеклянными створками кухня с островом и в узкой задней части столовая; справа лестница, санузел, бойлерная 4,5 м² и детская с раскладным диванчиком и дверью из столовой. На втором этаже четыре спальни, кабинета и балкона нет. Под кухней и столовой подвал 36,8 м² с входом из сада через приямок. В режиме «Только фундамент» виден весь участок без дома и все выпуски коммуникаций из плиты с кодами и привязками. Двускатная крыша с коньком над несущей стеной, второй этаж полумансардный, окна в левом скате. Артефакт: https://claude.ai/artifact/1E7rer6eFDHS2GWG5vcdFW |
+| `v5-dvuskatnaya.html` | Форма как в варианте 4. Вход справа: крыльцо в правом переднем углу под вторым этажом, за ним большая прихожая-холл без перегородок до лестницы, со шкафом, вешалкой и обувницей. Слева гостиная у фасада, за перегородкой с двумя раздвижными стеклянными створками кухня с островом и в узкой задней части столовая; справа лестница, санузел, бойлерная 4,5 м² и детская с раскладным диванчиком и дверью из столовой. На втором этаже четыре спальни, кабинета и балкона нет. Под кухней и столовой подвал 36,8 м² с входом через приямок между домом и складом. В режиме «Только фундамент» виден весь участок без дома и все выпуски коммуникаций из плиты с кодами и привязками. Двускатная крыша с коньком над несущей стеной, второй этаж полумансардный, окна в левом скате. Артефакт: https://claude.ai/artifact/1E7rer6eFDHS2GWG5vcdFW |
 
 ## Сайт
 
